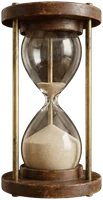
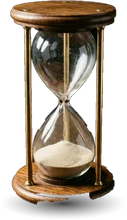
v0.13.0: treasure clear of ships, Meshy bottle and glass on the desk, sharper desk, gentle card return
- Treasure no longer surfaces under its owner's ships. Only the owner knows
  where they lie, so the owner places owed treasure on the first free square
  of a sequence drawn from their secret salt; nothing about their ships is
  given away, and the square is checked at the end of the battle (a test
  covers it and a moved drop is caught). Tests adjusted for the new random
  order.
- The new Meshy bottle and hourglass are cut out (GrabCut) with a soft
  contact shadow and stand on the desk.
- The desk texture is used at full resolution.
- The card chosen before sinks back into the hand when another is chosen.
- The scan keeps the lighthouse sweep.

Claude-Session: https://claude.ai/code/session_01YYVmoea2wLgzN484L9txEM

diff --git a/src/game/engine.ts b/src/game/engine.ts
@@ -4,7 +4,7 @@
 import { Order, pickOrder } from './orders';
 import { ITEMS, Item, MAX_ITEMS, START_DOUBLOONS } from './powerups';
 import {
-  AP_PER_TURN, CellResult, Dir, KRAKEN_SEALS, Kind, MAELSTROM_MAX_RING, MAELSTROM_ROUND, N, Revealed, Rnd, Role, Ship, XY, attackCells, countScan, inBoard, inKraken, inZone, legalPlacement, peekFits, peekShips, randomFleet, zoneFits,
+  AP_PER_TURN, CellResult, Dir, KRAKEN_SEALS, Kind, MAELSTROM_MAX_RING, MAELSTROM_ROUND, N, Revealed, Rnd, Role, Ship, XY, attackCells, countScan, inBoard, inKraken, inZone, legalPlacement, peekFits, safe, peekShips, randomFleet, zoneFits,
   repairShip, rimCells, resolveAttack, driftFleet, sailReach, sailShip, shipAt, shipCells, turnShip, canTurnShip, Way,
 } from './rules';
 
@@ -32,6 +32,7 @@ export type Body =
   | { t: 'scanResult'; x: number; y: number; count: number }
   | { t: 'peek'; x: number; y: number }
   | { t: 'note'; text: string }
+  | { t: 'drop'; id: number; x: number; y: number }
   | { t: 'pact'; ship: Revealed }
   | { t: 'current'; dir: number }
   | { t: 'peekResult'; x: number; y: number; ships: Revealed[]; fog: boolean }
@@ -79,6 +80,9 @@ export interface Pub {
   wind?: number;
   /** Each captain may seal one blood pact a battle. */
   pacts?: [boolean, boolean];
+  /** Treasure owed to a side's waters, waiting for its owner to place it clear of their hidden ships. */
+  due?: { id: number; side: 0 | 1; kind: 'gold' | 'seal'; value: number }[];
+  dueSeq?: number;
   /** A message in a bottle was already cast this turn. */
   noteSent?: boolean;
   /** Every note cast so far, oldest first. */
@@ -135,15 +139,29 @@ function rand(p: Pub): number {
   return ((t ^ (t >>> 14)) >>> 0) / 4294967296;
 }
 
+/** Treasure surfaces in a side's waters. Only its owner knows where their ships lie, so the owner places it
+ *  (on the first free square of a sequence drawn from their secret salt) and the place is checked at the end. */
 function spawnTreasure(p: Pub, side: 0 | 1, kind: 'gold' | 'seal' = 'gold') {
-  if (p.treasures.filter((t) => t.side === side && t.kind === kind).length >= (kind === 'gold' ? 3 : 1)) return;
-  for (let tries = 0; tries < 50; tries++) {
-    const x = Math.floor(rand(p) * N), y = Math.floor(rand(p) * N);
-    if (p.treasures.some((t) => t.side === side && t.x === x && t.y === y)) continue;
-    if (p.sides[side].sunk.some((s) => shipCells(s).some(([a, b]) => a === x && b === y))) continue;
-    p.treasures.push({ side, x, y, kind, value: kind === 'seal' ? 0 : [20, 30, 40][Math.floor(rand(p) * 3)] });
-    return;
+  const owed = (p.due || []).filter((d) => d.side === side && d.kind === kind).length;
+  if (p.treasures.filter((t) => t.side === side && t.kind === kind).length + owed >= (kind === 'gold' ? 3 : 1)) return;
+  const id = (p.dueSeq = (p.dueSeq || 0) + 1);
+  (p.due ??= []).push({ id, side, kind, value: kind === 'seal' ? 0 : [20, 30, 40][Math.floor(rand(p) * 3)] });
+}
+
+/** Where `side` must place owed treasure `id`: the first square of their salted sequence that is on the chart,
+ *  inside the maelstrom, and clear of their ships, their treasure and their wrecks. */
+export function dropSquare(p: Pub, side: 0 | 1, id: number, salt: string, ships: Ship[]): XY | null {
+  const taken = (x: number, y: number) => ships.some((s) => !s.sunk && shipCells(s).some(([a, b]) => a === x && b === y))
+    || p.treasures.some((t) => t.side === side && t.x === x && t.y === y)
+    || p.sides[side].sunk.some((s) => shipCells(s).some(([a, b]) => a === x && b === y));
+  for (let k = 0; k < 400; k++) {
+    let h = 2166136261;
+    for (const ch of `${salt}:${id}:${k}`) h = Math.imul(h ^ ch.charCodeAt(0), 16777619);
+    h >>>= 0;
+    const x = h % N, y = Math.floor(h / N) % N;
+    if (safe(p.ring, x, y) && !taken(x, y)) return [x, y];
   }
+  return null;
 }
 
 /** The Kraken lashes three cells of its patch; the defender must answer. */
@@ -192,6 +210,13 @@ const take = (items: Item[], it: Item) => { const i = items.indexOf(it); if (i >
 /** Apply one message to the public state. Returns false when the message is not legal right now. */
 export function reduce(p: Pub, m: Msg): boolean {
   const mine = p.sides[m.by], foe = (1 - m.by) as 0 | 1;
+  if (m.t === 'drop') {
+    const i = (p.due || []).findIndex((d) => d.id === m.id && d.side === m.by);
+    if (i < 0 || !inBoard(m.x, m.y) || p.treasures.some((t) => t.side === m.by && t.x === m.x && t.y === m.y)) return false;
+    const d = p.due!.splice(i, 1)[0];
+    p.treasures.push({ side: d.side, x: m.x, y: m.y, kind: d.kind, value: d.value });
+    return true;
+  }
   if (m.t === 'ready') {
     if (p.phase !== 'placement' || mine.ready) return false;
     mine.ready = true; mine.hash = m.hash; mine.name = m.name;
@@ -417,8 +442,17 @@ export class Client {
     this.newOrder(o);
   }
 
+  private dropsSent = new Set<number>();
   private react(m: Msg) {
     const p = this.pub, theirs = m.by !== this.me;
+    // Place any treasure owed to my waters, clear of my ships.
+    for (const d of p.due || []) {
+      if (d.side !== this.me || this.dropsSent.has(d.id)) continue;
+      const at = dropSquare(p, this.me, d.id, this.salt, this.ships);
+      if (!at) continue;
+      this.dropsSent.add(d.id);
+      this.send({ t: 'drop', id: d.id, x: at[0], y: at[1] });
+    }
     if (m.t === 'ready' && p.phase === 'battle') this.newOrder();
     if (m.t === 'attack' && theirs) {
       const { shielded, ...r } = resolveAttack(this.ships, m.cells, m.src === 'chain', this.escort);

diff --git a/src/game/rules.test.ts b/src/game/rules.test.ts
@@ -255,9 +255,10 @@ describe('protocol', () => {
   it('sinking the fleet ends the battle, reveals both fleets and verifies', async () => {
     const { bus, a, b } = await duel();
     const next = () => { for (const s of b.ships) { const cs = shipCells(s); for (let i = 0; i < s.len; i++) if (!s.hits[i]) return cs[i]; } return [0, 0] as [number, number]; };
-    for (let guard = 0; guard < 400 && a.pub.phase === 'battle'; guard++) {
-      if (a.myTurn) { if (a.pub.ap > 0) a.attack('shot', ...next()); else a.endTurn(); }
-      else if (b.pub.ap === 3) b.sail(3, 1, 1); else b.endTurn();
+    for (let guard = 0; guard < 1200 && a.pub.phase === 'battle'; guard++) {
+      // A storm over the target's row blocks the gun: then the turn simply ends.
+      if (a.myTurn) { if (!(a.pub.ap > 0 && a.attack('shot', ...next()))) a.endTurn(); }
+      else if (!(b.pub.ap === 3 && b.sail(3, 1, 1))) b.endTurn();
     }
     expect(a.pub.phase).toBe('over');
     expect(a.pub.winner).toBe(0);
@@ -567,6 +568,19 @@ describe('the covenant', () => {
     for (let guard = 0; guard < 600 && a.pub.phase === 'battle' && a.pub.round < 34; guard++) (a.myTurn ? a : b).endTurn();
     expect(a.pub.ring).toBe(5);
     expect(maelstromIn(a.pub)).toBeNull();
+  });
+  it('treasure never surfaces under its owner\'s ships, and an unfair spot is caught', async () => {
+    const { bus, a, b } = await duel();
+    for (let guard = 0; guard < 60; guard++) {
+      for (const c of [a, b]) for (const t of c.pub.treasures.filter((q) => q.side === c.me)) expect(c.ships.some((s) => !s.sunk && shipCells(s).some(([x, y]) => x === t.x && y === t.y))).toBe(false);
+      (a.myTurn ? a : b).endTurn();
+    }
+    expect(a.pub.treasures.length).toBeGreaterThan(4);
+    expect(a.pub).toEqual(b.pub);
+    sinkAll(a, b);
+    expect(await verify(bus.log, 0, 'classic', 7)).toBeNull();
+    const forged: Msg[] = bus.log.map((m) => (m.t === 'drop' && m.by === 0 ? { ...m, x: (m.x + 1) % N } : m));
+    expect(await verify(forged, 0, 'classic', 7)).toMatch(/treasure/);
   });
   it('a sunk ship leaves open water: others sail through her squares and shots there fall in the sea', () => {
     const line = mk(0, 'line', 5, 0, 0, 'h'), cutter = mk(1, 'cutter', 2, 5, 0, 'h');

diff --git a/src/ui/hud.ts b/src/ui/hud.ts
@@ -431,12 +431,19 @@ export class Hud {
       if (role !== 'classic' && !p.power[c.me]) tool('power', CAPTAINS[role].power, 1, c.canPower(), `Your captain's power. ${CAPTAINS[role].powerText}`);
     }
     // Fire in the very middle with Sail and Turn either side, the rest of the hand split around them.
+    // The card that was chosen before this redraw sinks back into the hand instead of vanishing from the raised spot.
+    const wasOn = this.root.querySelector<HTMLElement>('#belt .ocard.on')?.dataset.tool;
     const half = Math.floor(belt.length / 2);
     if (p.phase === 'battle') belt.splice(half, 0, ...orderCards);
     this.q('#belt').innerHTML = belt.join('');
     // Fan the hand: each card turns a little about a point below the table.
     const cards = [...this.root.querySelectorAll<HTMLElement>('#belt .ocard')], n = cards.length;
     cards.forEach((el, i) => { const k = i - (n - 1) / 2; el.style.setProperty('--r', `${k * 4}deg`); el.style.setProperty('--y', `${Math.abs(k) * 4}px`); el.style.zIndex = String(10 + i); });
+    const was = wasOn && wasOn !== mode ? cards.find((el) => el.dataset.tool === wasOn) : undefined;
+    if (was) {
+      was.style.transition = 'none'; was.classList.add('on'); void was.offsetWidth;
+      was.style.transition = ''; requestAnimationFrame(() => was.classList.remove('on'));
+    }
     this.root.querySelectorAll<HTMLElement>('.order').forEach((b) => b.classList.toggle('on', b.dataset.order === mode));
     const shownAp = Math.max(3, mine ? p.ap : 0);
     this.q('#apSeals').innerHTML = Array.from({ length: shownAp }, (_, k) => `<i class="${mine && k < p.ap ? '' : 'spent'}"></i>`).join('');

diff --git a/src/game/verify.ts b/src/game/verify.ts
@@ -1,6 +1,6 @@
 // After the battle each captain reveals their placement and hidden moves.
 // Replaying them against the public log shows whether every answer was honest.
-import { Act, Mode, Msg, Placement, commitHash, newPub, reduce } from './engine';
+import { Act, Mode, Msg, Placement, commitHash, dropSquare, newPub, reduce } from './engine';
 import { CellResult, FLEETS, N, Revealed, driftFleet, Role, Ship, XY, countScan, inZone, peekShips, fits, inKraken, legalPlacement, repairShip, resolveAttack, rimCells, sailShip, shipCells, turnShip } from './rules';
 
 // Compare by value: a database may hand objects back with their keys in another order.
@@ -48,6 +48,10 @@ export async function verify(log: Msg[], who: 0 | 1, role: Role = 'classic', see
           if (!!m.home !== shipCells(moving).some(([x]) => x === N - 1)) return 'the merchantman did not truly reach home';
         } else if (m.home) return 'a ship that is not the merchantman claimed the cargo';
       }
+    }
+    if (m.by === who && m.t === 'drop') {
+      const at = dropSquare(p, who, m.id, reveal.salt, ships);
+      if (!at || at[0] !== m.x || at[1] !== m.y) return 'treasure was set down on a square chosen unfairly';
     }
     if (m.by === who && m.t === 'pact') {
       const s = ships.find((q) => !q.sunk && q.kind === m.ship.kind && q.x === m.ship.x && q.y === m.ship.y && q.dir === m.ship.dir);

diff --git a/src/ui/hud.css b/src/ui/hud.css
@@ -436,3 +436,9 @@ button:focus-visible, input:focus-visible { outline: 2px solid var(--amber); out
 .belt .ocard:active { transform: translateY(var(--y)) rotate(var(--r)) translateY(-62px) scale(1.14); }
 .bottom { height: 150px; }
 .belt { bottom: -34px; }
+
+/* The Meshy bottle and glass resting on the desk; the desk at full resolution. */
+.bottleBtn img { height: 178px; }
+.glass img { height: 150px; }
+.bottom::before { background: linear-gradient(rgba(13, 11, 8, .5), transparent 40%, rgba(255, 214, 150, .05)), url('/ui/desk.jpg') center top / 1216px auto repeat-x, #3b1a10; }
+.belt .ocard { transition: transform .35s cubic-bezier(.2, .8, .3, 1.15), box-shadow .3s, filter .25s; }
